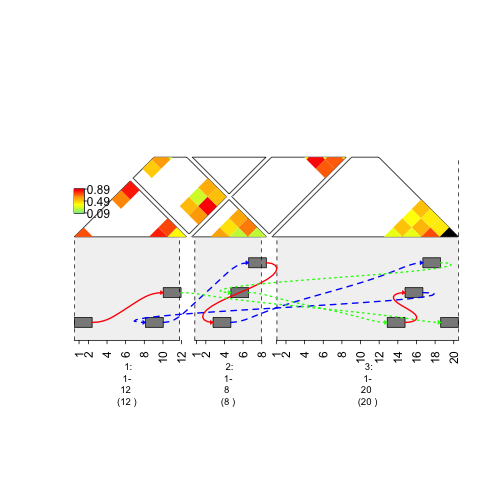
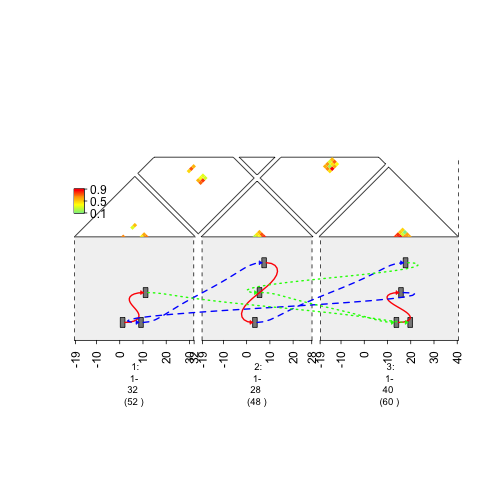
edit vignette

diff --git a/rtdocs/vignetteHeatGraph/vignetteHeatGraph.rst b/rtdocs/vignetteHeatGraph/vignetteHeatGraph.rst
@@ -243,8 +243,127 @@ Increase **"curviness"** of the edges by adding **h** column
 .. sourcecode:: r
     
 
-    ##zooming in and out is easy in gTrack. All you need to do is supply the arithmetic operation, like this:
-    plot(c(gTrack(gr , edges = graph, stack.gap = 5) , gTrack(gr , mdata = heatMap, stack.gap = 5)))
+    ##firstly, in previous examples, the seqnames have been 'chr1', 'chr2', etc. But, in order to avoid ALL possible errors the seqnames should be 1,2,etc.
+    ##can easily change an existing GRanges object to fit that criteria.
+    ##gr.fix will find the largest coordinate for each seqname and subsequently save those values in seqlengths parameter 
+    gr.fix(gr)
+
+
+::
+
+    ## GRanges object with 10 ranges and 2 metadata columns:
+    ##     seqnames    ranges strand |        GC             name
+    ##        <Rle> <IRanges>  <Rle> | <numeric>        <numeric>
+    ##   a     chr1  [ 1,  2]      * |         1                5
+    ##   b     chr2  [ 3,  4]      * |         2 5.55555555555556
+    ##   c     chr2  [ 5,  6]      * |         3 6.11111111111111
+    ##   d     chr2  [ 7,  8]      * |         4 6.66666666666667
+    ##   e     chr1  [ 9, 10]      * |         5 7.22222222222222
+    ##   f     chr1  [11, 12]      * |         6 7.77777777777778
+    ##   g     chr3  [13, 14]      * |         7 8.33333333333333
+    ##   h     chr3  [15, 16]      * |         8 8.88888888888889
+    ##   i     chr3  [17, 18]      * |         9 9.44444444444444
+    ##   j     chr3  [19, 20]      * |        10               10
+    ##   -------
+    ##   seqinfo: 3 sequences from an unspecified genome
+
+
+.. sourcecode:: r
+    
+
+    ##seqinfo will return the seqlengths for each seqname
+    seqinfo(gr)
+
+
+::
+
+    ## Seqinfo object with 3 sequences from an unspecified genome; no seqlengths:
+    ##   seqnames seqlengths isCircular genome
+    ##   chr1             NA         NA   <NA>
+    ##   chr2             NA         NA   <NA>
+    ##   chr3             NA         NA   <NA>
+
+
+.. sourcecode:: r
+    
+
+    ##si2gr (a gUtils function) will generate and then return a GRanges object from the seqlength values
+    si2gr(gr)
+
+
+::
+
+    ## GRanges object with 3 ranges and 0 metadata columns:
+    ##        seqnames    ranges strand
+    ##           <Rle> <IRanges>  <Rle>
+    ##   chr1     chr1    [1, 0]      +
+    ##   chr2     chr2    [1, 0]      +
+    ##   chr3     chr3    [1, 0]      +
+    ##   -------
+    ##   seqinfo: 3 sequences from an unspecified genome; no seqlengths
+
+
+.. sourcecode:: r
+    
+
+    ##putting these functions together, a range for each seqname will be available and arithmetic operations can be done to it and zooming is then possible.
+    si = si2gr(seqinfo(gr.fix(gr)))
+    
+    ##last step: replace all 'chr' strings in GRanges with an empty string. 
+    plot(c(gTrack(gr , edges = graph, stack.gap = 5) , gTrack(gr , mdata = heatMap, stack.gap = 5)) , gr.sub(si , 'chr' , '' )+20)
+
+
+::
+
+    ## Warning in valid.GenomicRanges.seqinfo(x, suggest.trim = TRUE): GRanges object contains 3 out-of-bound ranges located on sequences
+    ##   1, 2, and 3. Note that only ranges located on a non-circular
+    ##   sequence whose length is not NA can be considered out-of-bound
+    ##   (use seqlengths() and isCircular() to get the lengths and
+    ##   circularity flags of the underlying sequences). You can use trim()
+    ##   to trim these ranges. See ?`trim,GenomicRanges-method` for more
+    ##   information.
+
+    ## Warning in valid.GenomicRanges.seqinfo(x, suggest.trim = TRUE): GRanges object contains 3 out-of-bound ranges located on sequences
+    ##   1, 2, and 3. Note that only ranges located on a non-circular
+    ##   sequence whose length is not NA can be considered out-of-bound
+    ##   (use seqlengths() and isCircular() to get the lengths and
+    ##   circularity flags of the underlying sequences). You can use trim()
+    ##   to trim these ranges. See ?`trim,GenomicRanges-method` for more
+    ##   information.
+
+
+
+::
+
+    ## Warning in valid.GenomicRanges.seqinfo(x, suggest.trim = TRUE): GRanges object contains 1 out-of-bound range located on sequence
+    ##   1. Note that only ranges located on a non-circular sequence whose
+    ##   length is not NA can be considered out-of-bound (use seqlengths()
+    ##   and isCircular() to get the lengths and circularity flags of the
+    ##   underlying sequences). You can use trim() to trim these ranges.
+    ##   See ?`trim,GenomicRanges-method` for more information.
+
+
+
+::
+
+    ## Warning in valid.GenomicRanges.seqinfo(x, suggest.trim = TRUE): GRanges object contains 1 out-of-bound range located on sequence
+    ##   2. Note that only ranges located on a non-circular sequence whose
+    ##   length is not NA can be considered out-of-bound (use seqlengths()
+    ##   and isCircular() to get the lengths and circularity flags of the
+    ##   underlying sequences). You can use trim() to trim these ranges.
+    ##   See ?`trim,GenomicRanges-method` for more information.
+
+
+
+::
+
+    ## Warning in valid.GenomicRanges.seqinfo(x, suggest.trim = TRUE): GRanges object contains 1 out-of-bound range located on sequence
+    ##   3. Note that only ranges located on a non-circular sequence whose
+    ##   length is not NA can be considered out-of-bound (use seqlengths()
+    ##   and isCircular() to get the lengths and circularity flags of the
+    ##   underlying sequences). You can use trim() to trim these ranges.
+    ##   See ?`trim,GenomicRanges-method` for more information.
+
 
 .. figure:: figure/plot-zoom-1.png
     :alt: plot of chunk plot-zoom
